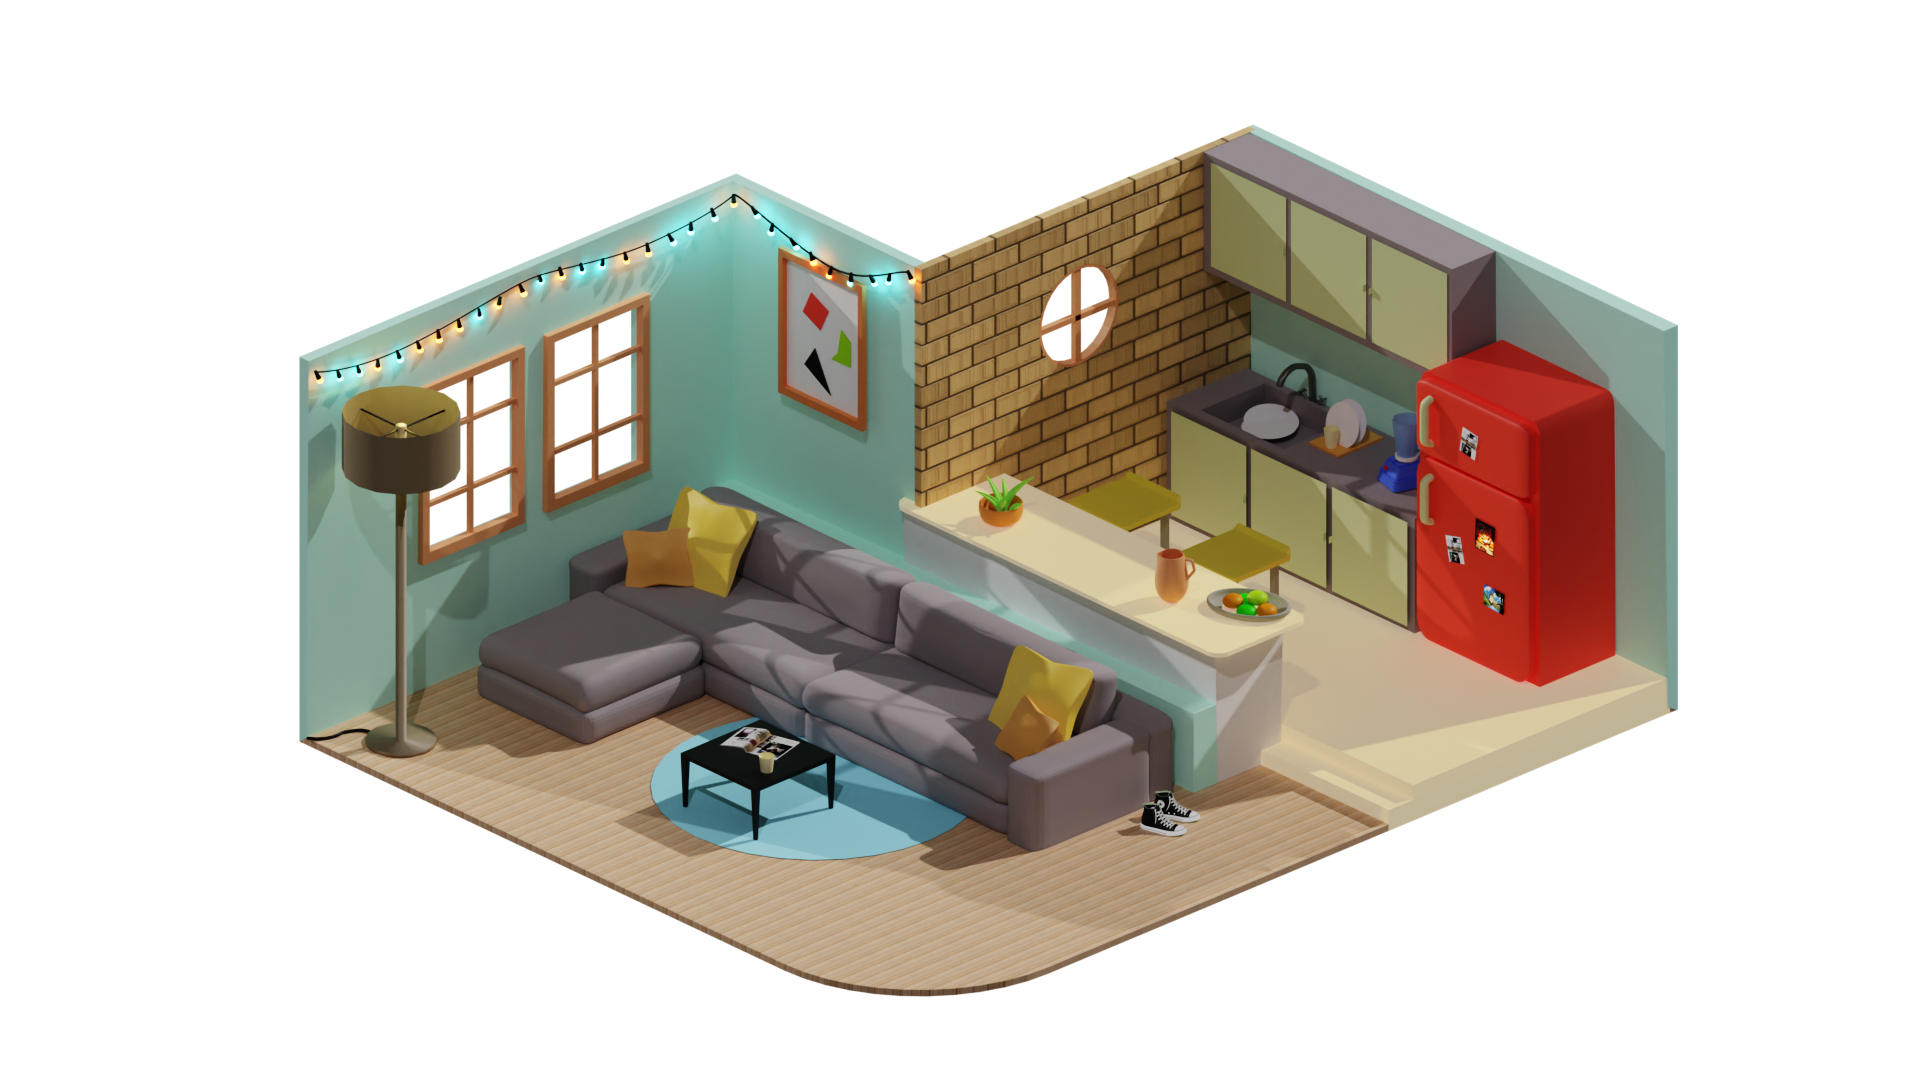
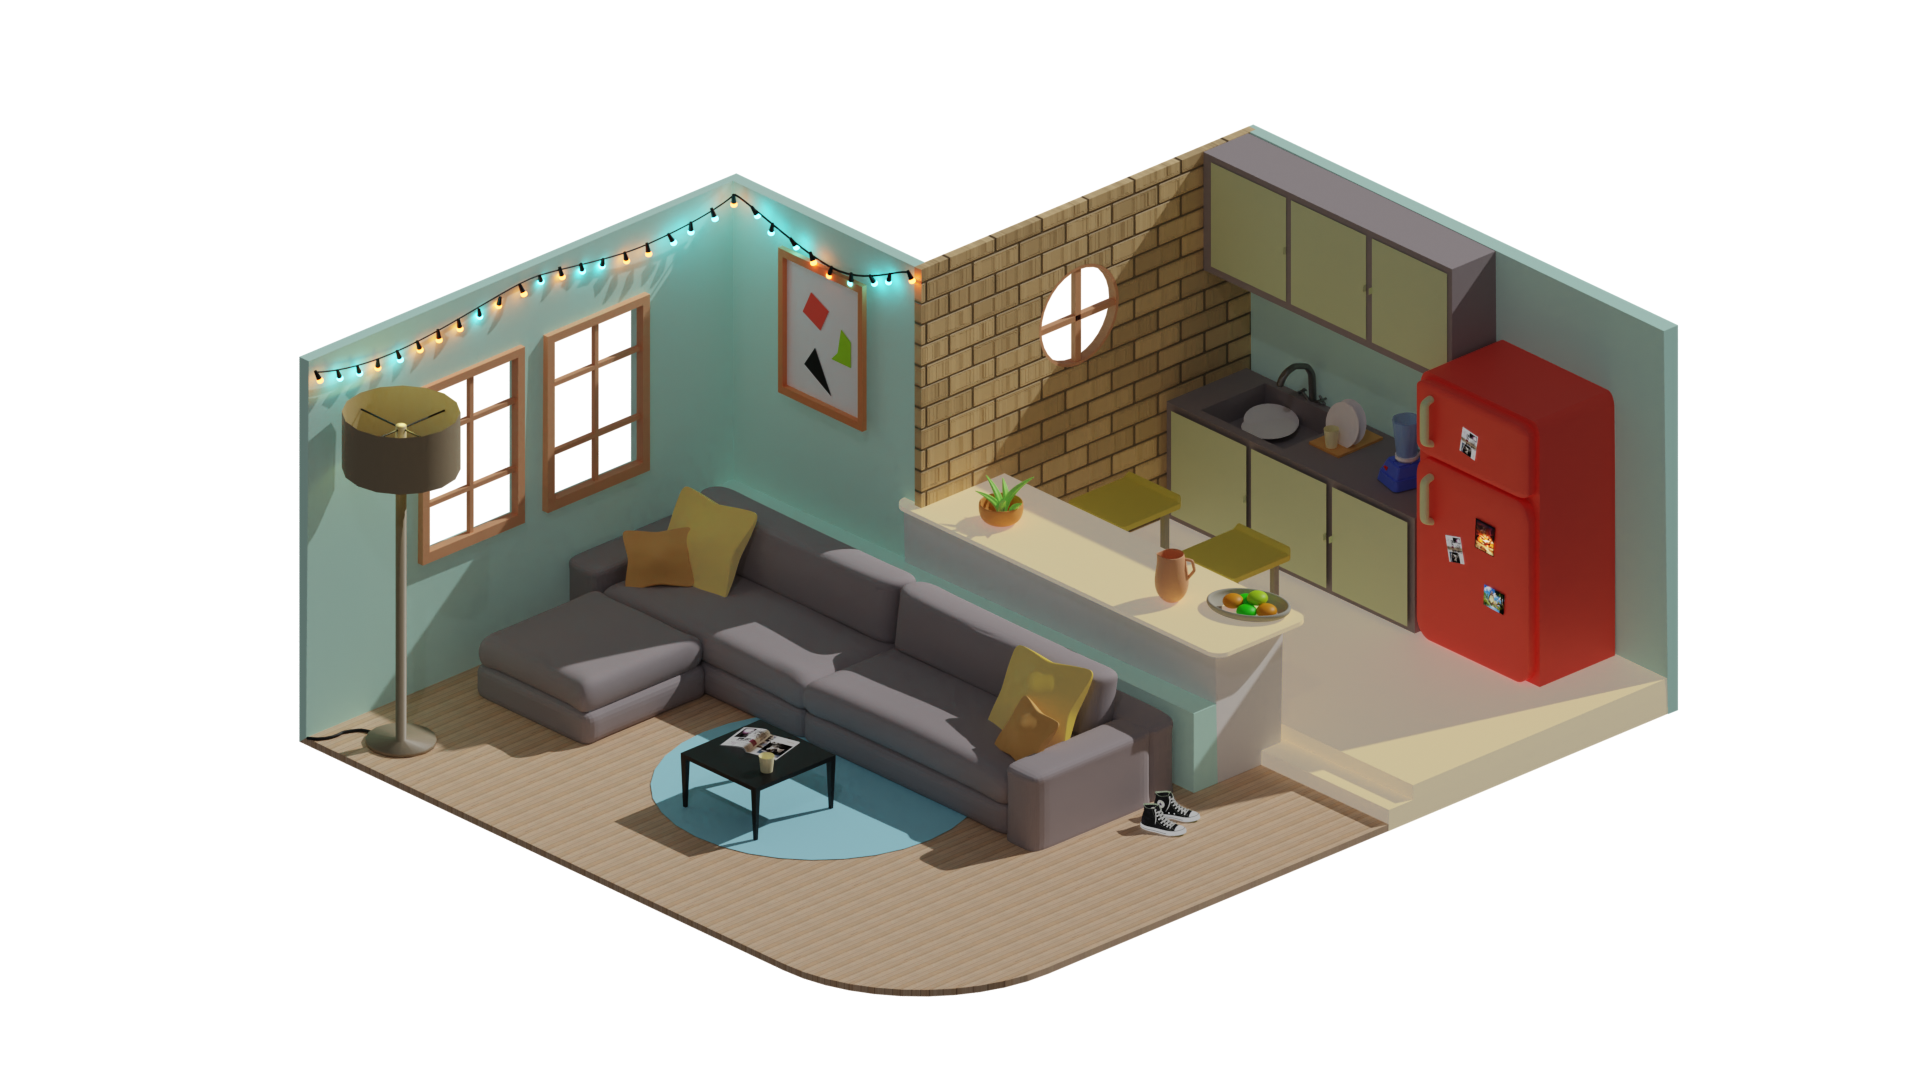
Correction ombre android

diff --git a/components/MonSolde.tsx b/components/MonSolde.tsx
@@ -44,7 +44,6 @@ const ImageContainer = ({image}) => (
 const styles = StyleSheet.create({
   global: {
     marginTop: 12,
-    elevation: 20,
     shadowColor: 'black',
     shadowOffset: {width: -2, height: 1},
     shadowOpacity: 0.1,
@@ -53,6 +52,7 @@ const styles = StyleSheet.create({
   },
   
   container: {
+    elevation:2,
     backgroundColor: "white",
     padding: 15,
     borderRadius: 10,

diff --git a/components/Selection.tsx b/components/Selection.tsx
@@ -52,7 +52,6 @@ const ImageContainer = ({image}) => (
 
 const styles = StyleSheet.create({
   global: {
-    elevation: 20,
     shadowColor: 'black',
     shadowOffset: {width: -2, height: 1},
     shadowOpacity: 0.1,
@@ -60,6 +59,7 @@ const styles = StyleSheet.create({
   },
   
   container: {
+    elevation:2,
     backgroundColor: "white",
     padding: 15,
     borderRadius: 10,

diff --git a/components/TacheCard.tsx b/components/TacheCard.tsx
@@ -35,7 +35,6 @@ const TacheCard = (props) => {
 
 const styles = StyleSheet.create({
   global: {
-    elevation: 20,
     shadowColor: 'black',
     shadowOffset: {width: -2, height: 1},
     shadowOpacity: 0.1,
@@ -43,6 +42,7 @@ const styles = StyleSheet.create({
   },
   
   container: {
+    elevation: 2,
     backgroundColor: "white",
     padding: 15,
     borderRadius: 10,

diff --git a/components/MiniJeu.tsx b/components/MiniJeu.tsx
@@ -29,7 +29,9 @@ const MiniJeu  = () => {
 const styles = StyleSheet.create({
   global: {
     marginTop: 12,
-    elevation: 20,
+    elevation: 2,
+    backgroundColor:'#EDF0FA',
+    borderRadius:10,
     shadowColor: 'black',
     shadowOffset: {width: -2, height: 1},
     shadowOpacity: 0.1,

diff --git a/screens/Accueil.tsx b/screens/Accueil.tsx
@@ -14,7 +14,7 @@ import { ScrollView } from 'react-native-gesture-handler';
 
 
 //importer l'image de maison
-const ProfilImage=require('../Img/Home.png');
+const ProfilImage=require('../Img/Apartment2.png');
 
 
 type Props = NativeStackScreenProps<RootStackParams, 'AccueilStack'>;

diff --git a/components/CourseCard.tsx b/components/CourseCard.tsx
@@ -55,7 +55,7 @@ const styles = StyleSheet.create({
 
   body: {
     marginBottom: 15,
-    elevation: 20,
+    elevation: 2,
     shadowColor: 'black',
     shadowOffset: {width: -2, height: 1},
     shadowOpacity: 0.1,
